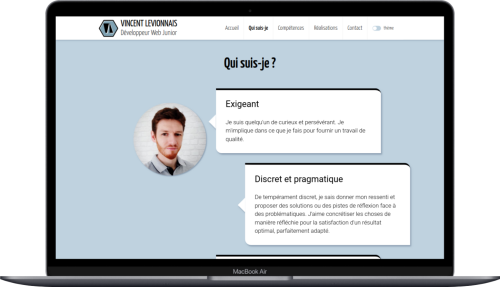
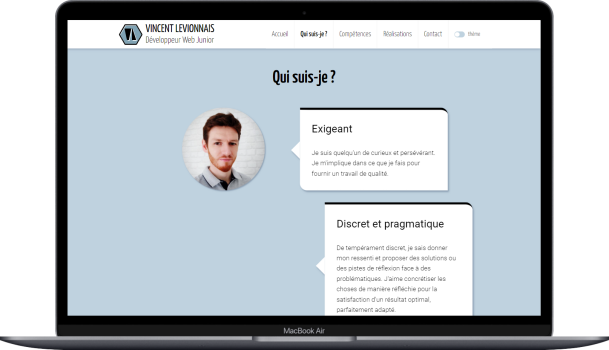
ajustement css thème + ajout screenshot

diff --git a/public/assets/css/style.css b/public/assets/css/style.css
@@ -25,19 +25,19 @@
 
 [data-theme="dark"] {
     /* header, footer, menu-burger ... */
-    --primary-color: rgb(12, 0, 36);
+    --primary-color: rgb(3, 4, 46);
     /* hover on menu ...*/
-    --secondary-color: rgb(52, 36, 139);
+    --secondary-color: rgb(16, 21, 83);
     /* p */
     --third-color: rgb(255, 255, 255);
     /* shadow on header, menu ...*/
-    --shadow-color: rgba(136, 14, 207, 0.7);
+    --shadow-color: rgb(152, 14, 207);
     /* body background ...*/
-    --bg-color: rgb(30, 31, 53);
+    --bg-color: rgb(8, 11, 63);
     /* card background ... */
-    --card-bg-color: rgb(33, 42, 77);
+    --card-bg-color: rgb(25, 32, 75);
     /* h1, li*/
-    --heading-color: rgb(117, 161, 255);
+    --heading-color: rgb(115, 192, 255);
     /* a:link */
     --link-color: rgb(126, 214, 255);
     /* a:visited */
@@ -133,14 +133,14 @@ a:visited {
     display: flex;
     float: left;
     align-items: center;
-    font-size: 1.5rem;
+    font-size: 2rem;
     color: var(--third-color);
     padding: 0.5rem;
 }
 
 .navbar-brand span {
-    font-size: 1.89rem;
-    line-height: initial;
+    font-size: 2rem;
+    line-height: 2rem;
     font-weight: 400;
     text-transform: uppercase;
 

diff --git a/app/views/partials/nav.tpl.php b/app/views/partials/nav.tpl.php
@@ -4,7 +4,7 @@
         <div class="navbar-brand">
             <img id="navbar-brand-logo" src="./assets/pictures/logo-vl.svg" alt="Logo VL">
             <h1><span>Vincent Levionnais</span><br>
-                Développeur Web Junior</h1>
+                      Développeur Web</h1>
         </div>
     </a>
 
